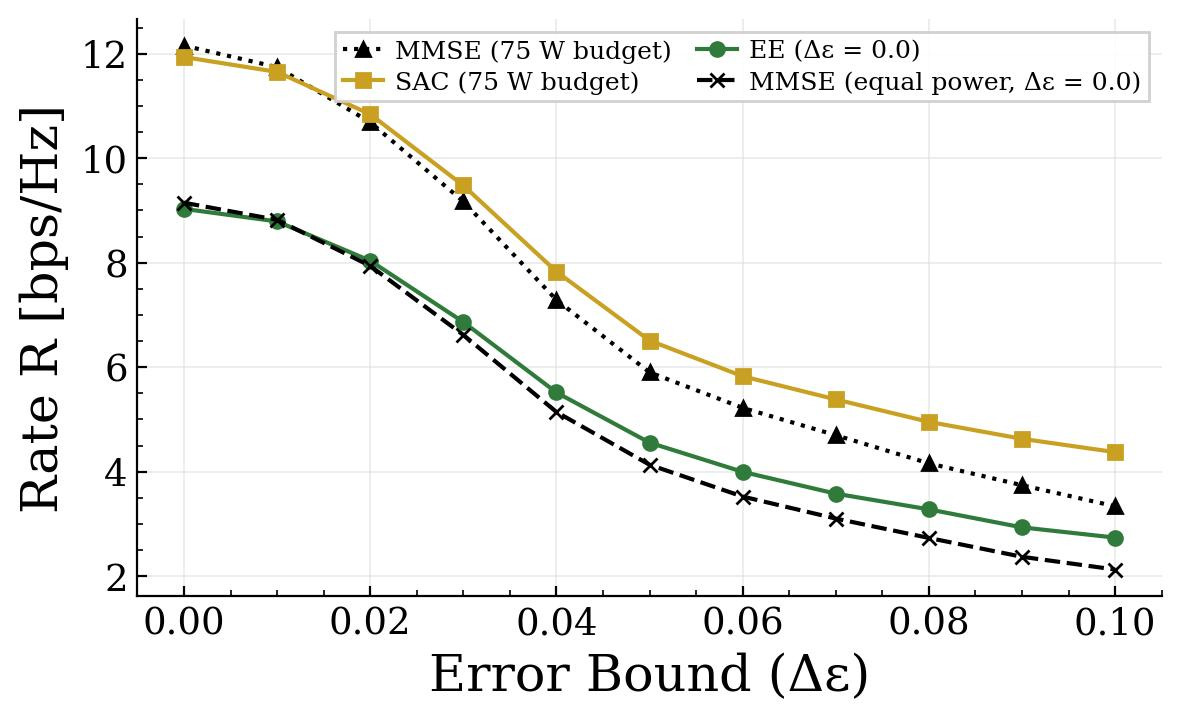
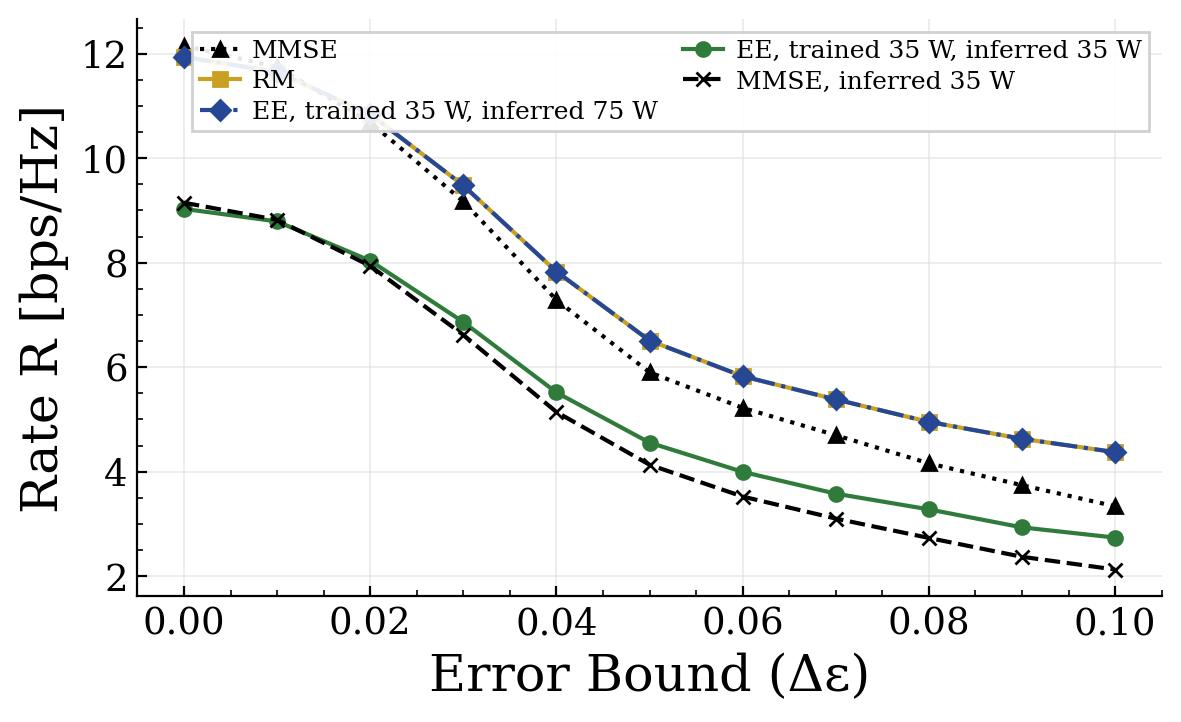
Add RM baseline + EE-at-full-power curves to error-sweep figure
Five curves now: MMSE, RM (rate-maximization baseline, currently the EE
Delta-eps=0.0 checkpoint's full-power-inference data as a stand-in until
SAC_rateonly_satg30_p75_nadir.slurm's own checkpoint exists), EE labeled
with measured train/infer watts (native + forced-full-power variants),
and MMSE labeled with its matched-power watts instead of Delta-eps. RM
and the EE-full-power curve deliberately overlap for now -- they'll
diverge once the rate-only checkpoint replaces RM's data source.

diff --git a/src/energy_efficiency/plotting_scenario.py b/src/energy_efficiency/plotting_scenario.py
@@ -227,15 +227,30 @@ if __name__ == '__main__':
     plot_width = 0.99 * plot_cfg.textwidth
     plot_height = plot_width * 0.6
 
+    # Legend text uses measured watts (rounded), not fixed placeholders --
+    # ee_infer_watt/rm_watt are the same checkpoint's full-power-projected
+    # measurement, so they're numerically identical for now; they'll diverge
+    # once SAC_rateonly_satg30_p75_nadir.slurm's own checkpoint replaces the
+    # RM curve's data below.
+    ee_train_watt = round(data['results']['sac_aod0.0']['mean_power'][0])
+    ee_infer_watt = round(data['results']['sac_aod0.0_fullpower']['mean_power'][0])
+    rm_watt = round(data['results']['sac_aod0.0_fullpower']['mean_power'][0])
+    mmse_matched_watt = round(data['results']['mmse_matched_aod0.0']['mean_power'][0])
 
     curves = [
-        {'result_key': 'mmse_nadir', 'label': 'MMSE (75 W budget)',
+        {'result_key': 'mmse_nadir', 'label': 'MMSE',
          'color': plot_cfg.cp2['black'], 'marker': '^', 'linestyle': ':'},
-        {'result_key': 'sac_aod0.0_fullpower', 'label': 'SAC (75 W budget)',
+        # RM = rate-maximization baseline. Reuses the EE (Δε=0.0) checkpoint's
+        # full-power-inference data as a stand-in until SAC_rateonly_
+        # satg30_p75_nadir.slurm's own separately-trained checkpoint exists --
+        # swap 'sac_aod0.0_fullpower' for that checkpoint's result_key then.
+        {'result_key': 'sac_aod0.0_fullpower', 'label': 'RM',
          'color': plot_cfg.cp2['gold'], 'marker': 's', 'linestyle': '-'},
-        {'result_key': 'sac_aod0.0', 'label': 'EE (Δε = 0.0)',
+        {'result_key': 'sac_aod0.0_fullpower', 'label': f'EE, trained {ee_train_watt} W, inferred {ee_infer_watt} W',
+         'color': plot_cfg.cp2['blue'], 'marker': 'D', 'linestyle': '-.'},
+        {'result_key': 'sac_aod0.0', 'label': f'EE, trained {ee_train_watt} W, inferred {ee_train_watt} W',
          'color': plot_cfg.cp2['green'], 'marker': 'o', 'linestyle': '-'},
-        {'result_key': 'mmse_matched_aod0.0', 'label': 'MMSE (equal power, Δε = 0.0)',
+        {'result_key': 'mmse_matched_aod0.0', 'label': f'MMSE, inferred {mmse_matched_watt} W',
          'color': plot_cfg.cp2['black'], 'marker': 'x', 'linestyle': '--'},
     ]
 
